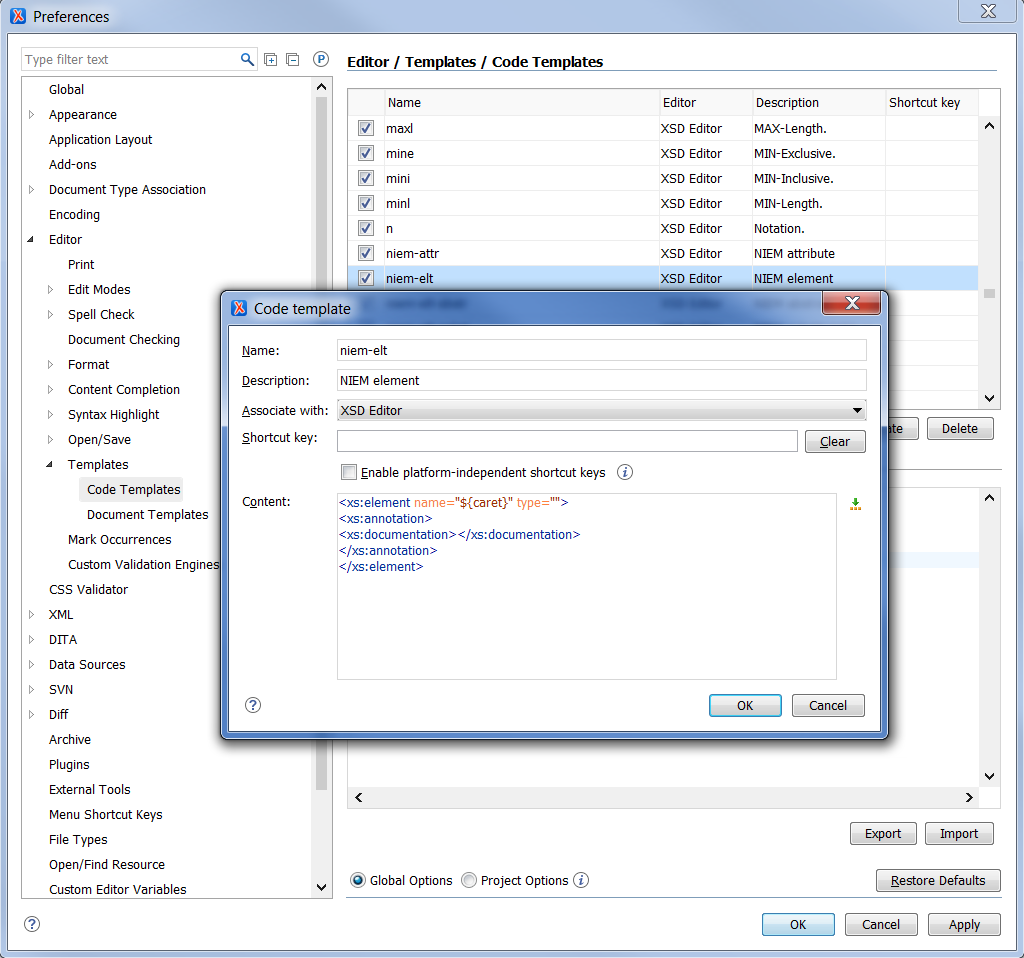
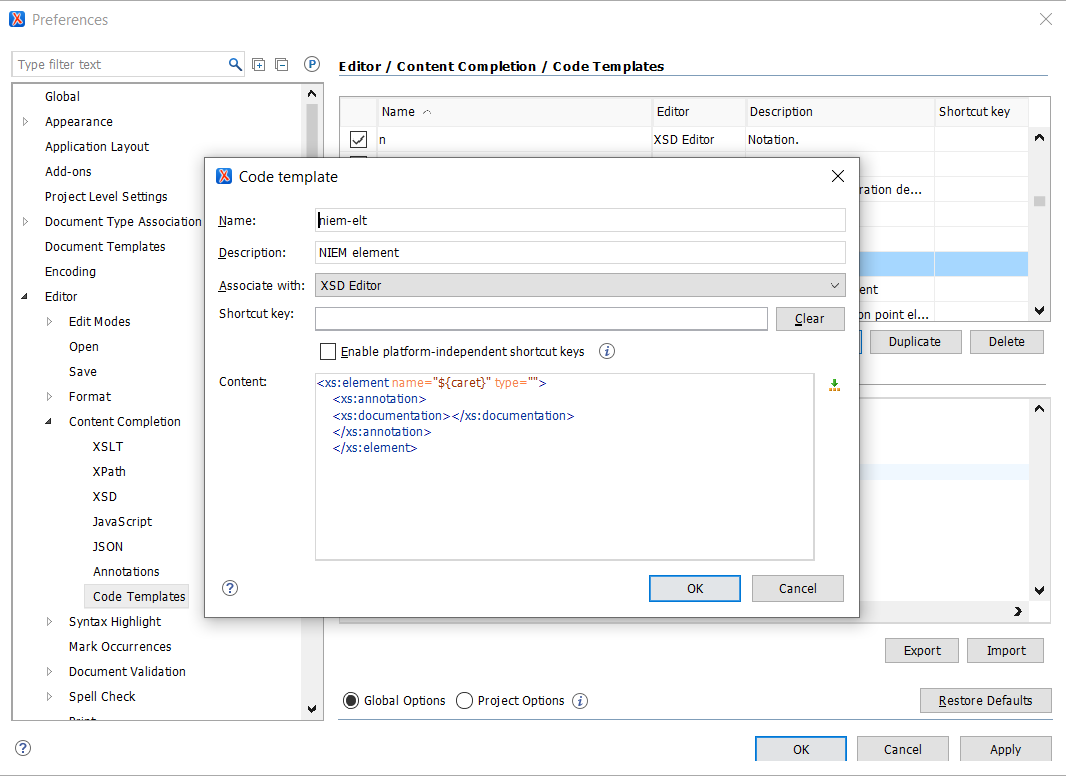
Updated Oxygen screenshots for new panel name

Changed region(s): [[0.0, 0.0, 1.0, 1.0], [0.2812, 0.8969, 0.5938, 0.9278]]

diff --git a/oxygen/readme.md b/oxygen/readme.md
@@ -1,7 +1,7 @@
 
 # Using NIEM snippets with Oxygen XML Editor
 
-For more information on snippets in Oxygen, please their page about [Code Templates](https://www.oxygenxml.com/doc/versions/20.0/ug-author/topics/code-templates-x-modes3.html).
+For more information on snippets in Oxygen, please their page about [Code Templates](https://www.oxygenxml.com/doc/versions/23.0/ug-editor/topics/code-templates-x-editing2.html).
 
 - [Import snippets](#import-snippets)
 - [Use a snippet](#use-a-snippet)
@@ -12,31 +12,33 @@ For more information on snippets in Oxygen, please their page about [Code Templa
 
 - Download the snippet file to any directory
 - In Oxygen, click on menu item **Options** -> **Preferences...**
-- In the Preferences panel on the left sidebar, click on **Editor** -> **Templates** -> **Code Templates**
+- In the Preferences panel on the left sidebar, click on **Editor** -> **Content Completion** -> **Code Templates**
 - Click the Import button near the bottom right of the panel and select the downloaded snippets file
 
 ![Importing snippets](images/import.png)
 
 ## Use a snippet
 
-Note: All NIEM snippets begin with "niem-"
+> Note: All NIEM snippets begin with "niem-"
 
 - Type "niem" in an XML schema file
 - Hit Ctrl/Cmd + Space
 - Scroll down through the drop-down list to see all applicable snippets that begin with "niem".
   - Recently used snippets will appear at the top of the list
-  - The snippet title and code will
+  - The snippet title and code will appear in a preview box
 - The more you type in the snippet name before hitting Ctrl/Cmd + Space, the narrower the list will be.
-  - "niem-type" + Ctrl/Cmd + Space will bring up a list of all NIEM type snippets.
-  - "niem-type-ccc" + Ctrl/Cmd + Space will automatically
+  - "niem" + Ctrl/Cmd + Space will bring up a list of all NIEM snippets.
+  - "niem-type" + Ctrl/Cmd + Space will filter the list of snippets to NIEM types.
 - Hit "Tab" or "Enter" to load the snippet
 - The snippet will be incomplete.
   - Fields like names and definitions may be partially provided or completely blank and must be filled in.
   - In some cases, defaults may be provided but can be changed as needed.
 
+![Selecting a snippet](images/select.png)
+
 ## Modify a snippet
 
-- In Oxygen, click on "Options" / "Preferences" / "Editor" / "Templates" / "Code Templates"
+- In Oxygen, click on "Options" / "Preferences" / "Editor" / "Content Completion" / "Code Templates"
 - Select the snippet to modify
   - The snippet will begin with "niem-"
   - NIEM snippets will appear under "XSD Editor" and/or "JSON Editor" group
